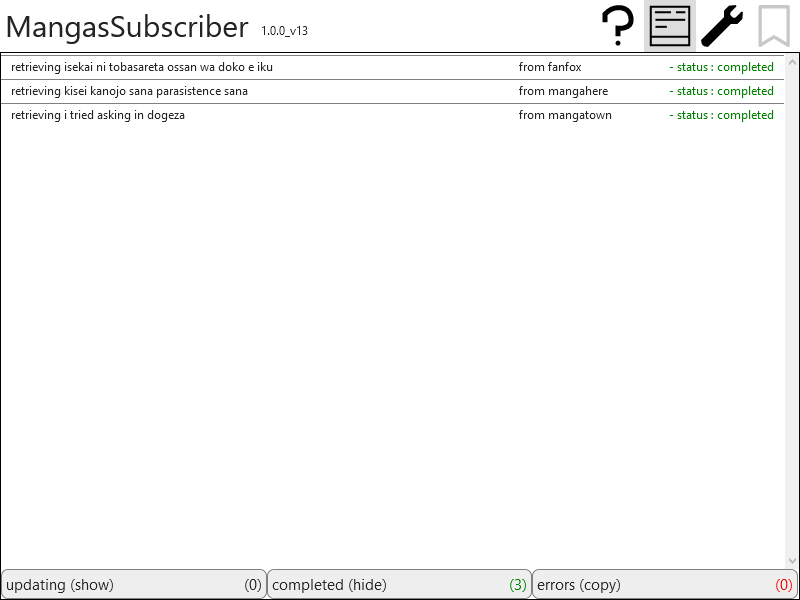
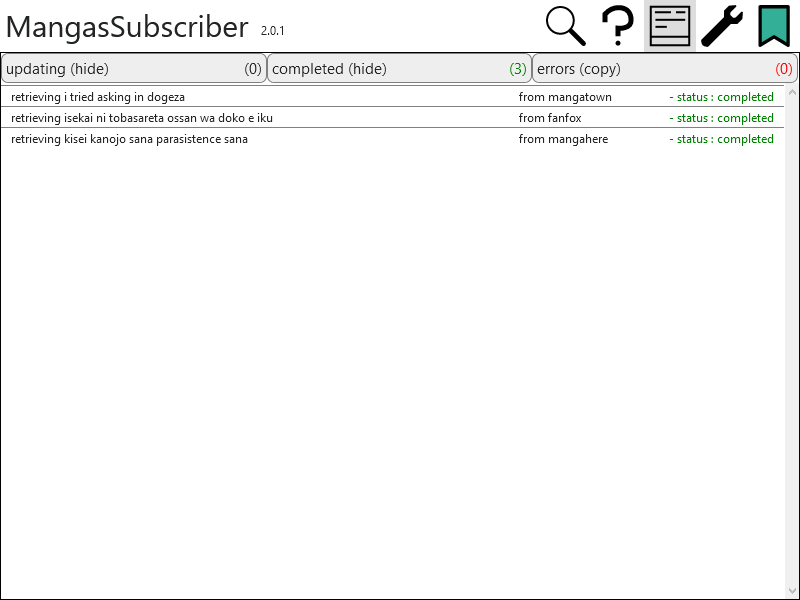
updated the help panel
- updated the help panel
- added a warning to the mangas list website select when a manga isn't followed on any website

diff --git a/popup/popup.html b/popup/popup.html
@@ -21,9 +21,9 @@
 
 	<!------- OPTIONS PANEL START ------->
 		<div id="options" class="panel">
-			<div id="unified_chapter_numbers" title="IMPORTANT : using unified chapters numbers means volume numbers wont be taken into account, and chapter numbers from every sites will be formatted the same. this insures there is no duplicate chapter when following a manga on several sites. 
-	the downside is that some websites that use volume numbers have uploaded old mangas while reinitializing chapters numbers at each new volume. for those particular cases, the new volumes wont be detected when using unified chapter numbers. 
-	NOT using unified chapter numbers on the other hand means that volume numbers are recorded, and that will create duplicate of chapters when following a manga on a site that use volume numbers and a site that doesn't at the same time. but in this case, no chapter will be missed."><div class="inline onehalf">use unified chapters numbers /!\ : </div><img class="inline icons" id="unified_chapter_numbers_tickbox" src="../icons/no.svg"></img></div>
+			<div id="unified_chapter_numbers" title="IMPORTANT : using unified chapters numbers means volume numbers wont be taken into account, and chapter numbers from every sites will be formatted the same. This insures there is no duplicate chapter when following a manga on several sites. 
+	The downside is that some websites that use volume numbers have uploaded old mangas while reinitializing chapters numbers at each new volume. For those particular cases, the new volumes wont be detected when using unified chapter numbers. 
+	NOT using unified chapter numbers on the other hand means that volume numbers are recorded, and that will create duplicate of chapters when following a manga on a site that use volume numbers and a site that doesn't at the same time. But in this case, no chapter will be missed."><div class="inline onehalf">use unified chapter numbers /!\ : </div><img class="inline icons" id="unified_chapter_numbers_tickbox" src="../icons/no.svg"></img></div>
 			<div id="check_all_sites"><div class="inline onehalf">check all sites when updating the list : </div><img class="inline icons" id="check_all_sites_tickbox" src="../icons/no.svg"></img></div>
 			<div id="navigation_bar"><div class="inline onehalf">navigation bar while browsing mangas : </div><img class="inline icons" id="navigation_bar_tickbox" src="../icons/yes.svg"></img></div>
 			<div id="auto_update" title="0 to disable it"><div class="inline onehalf">automatically update the list every : </div><input type="number" id="auto_update_interval" min="0" max="168" value="0" title="0-168 hours (= 7 days)"> hours</div>
@@ -66,6 +66,7 @@
 						<li><img class="inline" src="../help/images/help_options_icon.png"> open/close the options panel.</li>
 						<li><img class="inline" src="../help/images/help_console_icon.png"> open/close the console panel.</li>
 						<li><img class="inline" src="../help/images/help_help_icon.png"> open/close the help panel (this one).</li>
+						<li><img class="inline" src="../help/images/help_search_icon.png"> open/close the search panel.</li>
 						<li><img class="inline" src="../help/images/help_name&version.png"> version of the extension. close any opened panel.</li>
 					</ul>
 				</div>
@@ -75,15 +76,16 @@
 						<li><img class="inline" src="../help/images/help_filter.png"> hide all mangas in the list whose title doesn't contain what is typed inside.</li>
 						<li><img class="inline icons" src="../icons/unread.svg"> toggle the display of fully read mangas.</li>
 						<li><img class="inline icons" src="../icons/already_read.svg"> toggle the display of mangas with unread chapters.</li>
+						<li><img class="inline" src="../help/images/help_tag_filter.png"> toggle the display of mangas with the corresponding tag.</li>
 						<li><img class="inline icons" src="../icons/refresh.svg"> refresh the list.</li>
-						<li>The subsequent buttons apply to all visible ( = not filtered) mangas : <img class="inline icons" src="../icons/read.svg"> open selected chapter in a new tab, <span class="tooltip" title="Please be patient though, as depending on the number of mangas you're trying to update at once, it can take quite a while and make your browser quite unresponsive. Even if the popup is closed, the upate will continue in the background"><img class="inline icons" src="../icons/update.svg"> update</span>, <img class="inline icons" src="../icons/read_all.svg">mark all chapters as 'read', <span class="tooltip" title="If turned off, the mangas won't be updated with the rest of the list when you do a grouped update."><img class="inline icons" src="../icons/update_true.svg">/<img class="inline icons" src="../icons/update_false.svg"> toggle update on/off</span>, <img class="inline icons" src="../icons/trash.svg"> remove from the list</li>
+						<li>The subsequent buttons apply to all visible ( = not filtered) mangas : <img class="inline icons" src="../icons/read.svg"> open selected chapter in a new tab, <span class="tooltip" title="Please be patient though, as depending on the number of mangas you're trying to update at once, it can take quite a while and make your browser quite unresponsive. Even if the popup is closed, the upate will continue in the background."><img class="inline icons" src="../icons/update.svg"> update</span>, <img class="inline icons" src="../icons/read_all.svg">mark all chapters as 'read', <span class="tooltip" title="If turned off, the mangas won't be updated with the rest of the list when you do a grouped update."><img class="inline icons" src="../icons/update_true.svg">/<img class="inline icons" src="../icons/update_false.svg"> toggle update on/off</span>, <img class="inline icons" src="../icons/trash.svg"> remove from the list</li>
 					</ul>
 				</div>
 				<div class="section">
 					<h3>The third (and last) part is the list</h3>
 					<ul>
 						<li>Each line represents a manga (name, number of unread chapters, and <span class="tooltip" title="ordered with unread stuff (ascending order on red background) at the top, followed by stuff already read (descending order on green background)"><b>the list of chapters</b></span>, followed by the <span title="open the selected chapter in a new tab"><img class="inline icons" src="../icons/read.svg"> open selected chapter at the end).</li>
-						<li>Hovering over a manga will extend it to show additional options applying to that manga only : <img class="inline icons" src="../icons/trash.svg"> remove from the list, <span  class="tooltip" title="It's the website on which the manga will be updated when 'check all sites' is disabled. By default, it's the one you registered the manga on."><img class="inline" src="../help/images/help_websiteselect.png"> select the primary website</span>, <span class="tooltip" title="Please be patient though, as depending on the number of mangas you're trying to update at once, it can take quite a while and make your browser quite unresponsive. Even if the popup is closed, the upate will continue in the background. It will ignore the 'don't update with the rest of the list' option."><img class="inline icons" src="../icons/update.svg"> update</span>, <img class="inline icons" src="../icons/read_all.svg">mark all chapters as 'read', <span class="tooltip" title="If turned off, the mangas won't be updated with the rest of the list when you do a grouped update."><img class="inline icons" src="../icons/update_true.svg">/<img class="inline icons" src="../icons/update_false.svg"> toggle update on/off</span></li>
+						<li>Hovering over a manga will extend it to show additional options applying to that manga only : <img class="inline icons" src="../icons/trash.svg"> remove from the list, <span  class="tooltip" title="The tags registered for that mangas. you can add, remove or create new tags as you want."><img class="inline" src="../help/images/help_tag_list.png"> select the tags</span>, <span  class="tooltip" title="Choose all the websites on which to update that manga. Also pick a primary website, on which to read by default (also the one used to update when 'check all sites' is disabled). By default, it's the one you registered the manga on."><img class="inline" src="../help/images/help_websiteselect.png"> select the websites</span>, <span class="tooltip" title="Please be patient though, as depending on the number of mangas you're trying to update at once, it can take quite a while and make your browser quite unresponsive. Even if the popup is closed, the upate will continue in the background. It will ignore the 'don't update with the rest of the list' option."><img class="inline icons" src="../icons/update.svg"> update</span>, <img class="inline icons" src="../icons/read_all.svg">mark all chapters as 'read', <span class="tooltip" title="If turned off, the mangas won't be updated with the rest of the list when you do a grouped update."><img class="inline icons" src="../icons/update_true.svg">/<img class="inline icons" src="../icons/update_false.svg"> toggle update on/off</span></li>
 					</ul>
 				</div>
 			</div>
@@ -93,11 +95,14 @@
 					<h3>The Options</h3>
 					<div class="zoom"><img class="small_image" src="../help/images/help_options.png"></img></div>
 					<ul>
-						<li><span class="tooltip" title="By default it is off. Be careful here, as using it for general use will significantly increase update times. Recommended use is to turn it on, manually update the mangas that have a leap in chapters, and then turn it off.""><b>check all sites :</b></span> lets you choose whether to check only a manga's preferred website when looking for new chapters, or all available websites.</li> 
-						<li><span class="tooltip" title="It only directs to chapters the extension is aware of (ie : chapters that have been found during an update or while reading). Some buttons may not appear when not applicable (for instance, previous when the previous chapter is also the first)."><b>navigation bar :</b></span> will let you navigate between chapters (first, previous, next and last) when reading a subscribed manga.</li>
-						<li><span class="tooltip" title="0~24 hours, 0 to turn it off."><b>automatically update :</b></span> will update the list every X hours.</li>
+						<li><span class="tooltip" title="IMPORTANT : using unified chapters numbers means volume numbers wont be taken into account, and chapter numbers from every sites will be formatted the same. This insures there is no duplicate chapter when following a manga on several sites. 
+	The downside is that some websites that use volume numbers have uploaded old mangas while reinitializing chapters numbers at each new volume. For those particular cases, the new volumes wont be detected when using unified chapter numbers. 
+	NOT using unified chapter numbers on the other hand means that volume numbers are recorded, and that will create duplicate of chapters when following a manga on a site that use volume numbers and a site that doesn't at the same time. But in this case, no chapter will be missed."><b>unified chapter numbers :</b></span> lets you choose whether or not chapters numbers are all formated the same (and volume numbers discarded) regardless of the registered websites numerotation system.</li> 
+						<li><span class="tooltip" title="By default it is off. Be careful here, as using it for general use will significantly increase update times. Recommended use is to turn it on, manually update the mangas that have a leap in chapters, and then turn it off."><b>check all sites :</b></span> lets you choose whether to check only a manga's primary website when looking for new chapters, or all registered websites.</li> 
+						<li><span class="tooltip" title="It only directs to chapters the extension is aware of (ie : chapters that have been found during an update or while reading). Some buttons may not appear when not applicable (for instance, previous when the previous chapter is also the first)."><b>navigation bar :</b></span> will let you navigate between chapters (first, previous, next and last) when reading a subscribed manga. will also unlock a button while reading to mark a chapter as "not read" (if the website can't load images or something).</li>
+						<li><span class="tooltip" title="0~168 hours (= 7 days), 0 to turn it off."><b>automatically update :</b></span> will update the list every X hours.</li>
+						<li><span class="tooltip" title="0 to turn off the limit. It affects both the search panel and results show when adding a website which uses a different name to a manga (for instance 'good luck demon king' and 'good luck maou-sama')."><b>limit searches :</b></span> will only show the first X results when searching on mangas websites.</li>
 						<li><b>export list to file :</b> will export your list to a local json file.</li>
-						<li><span class="tooltip" title="The local data will be overwritten."><b>import mangas list from text :</b></span> will import data copy/pasted in the field.</li>
 						<li><span class="tooltip" title="The local data will be overwritten."><b>import mangas list from file :</b></span> will open a webpage to import data saved in a file.</li> 
 						<li><span class="tooltip" title="The data previously exported to pastebin will be overwritten."><b>export list to pastebin :</b></span> will anonymously export your list to pastebin.</li>
 						<li><span class="tooltip" title="The local data will be overwritten."><b>import list from pastebin :</b></span> will import data previously exported to pastebin.</li>
@@ -113,6 +118,28 @@
 						<li><b>updating :</b> shows/hides the mangas you have started updating, and on which website.</li>
 						<li><b>completed :</b> shows/hides the mangas that have successfully been updated.</li>
 						<li><b>errors :</b> copies (ctrl+c) the errors for easy reporting.</li>
+					</ul>
+				</div>	
+			</div>
+			<div class="separator">
+				<h2><b>The Search Panel</b> lets you search for random stuff across all available websites :</h2>
+				<div class="section">
+					<h3>The Search</h3>
+					<div class="zoom"><img class="small_image" src="../help/images/help_search.png"></div>
+					<ul>
+						<li>type something in the search field, and validate by pressing [enter].</li>
+						<li>click the [x] button on the right to clear the search field.</li>
+					</ul>
+				</div>
+				<div class="section">
+					<h3>The Results</h3>
+					<div class="zoom"><img class="small_image" src="../help/images/help_search_results.png"></div>
+					<ul>
+						<li>the results (whatever the available websites have found in relation to what you typed) will be shown in a popup.</li>
+						<li>click a website name to hide/show its results.</li>
+						<li>click a manga name to open it in a new tab.</li>
+						<li>click a follow button on the right to follow it directly from the search.</li>
+						<li>click [dismiss] or anywhere outside the popup to close it.</li>
 					</ul>
 				</div>	
 			</div>

diff --git a/popup/list.js b/popup/list.js
@@ -245,6 +245,15 @@ async function createMangasList() {
                 dom_option.selected = "selected";
                 dom_register_website.appendChild(dom_option);
         }
+        if (dom_register_website.options.length == 1) {
+            //add add warning if it is not followed on any website
+            let dom_option = document.createElement("option");
+            let dom_option_text = document.createTextNode("warning : not followed on any site");
+            dom_option.appendChild(dom_option_text);
+            dom_option.setAttribute("disabled", "disabled");
+            dom_option.selected = "selected";
+            dom_register_website.appendChild(dom_option);
+        }
         dom_register_website_cell.appendChild(dom_register_website);
         dom_manga.appendChild(dom_register_website_cell);
 
